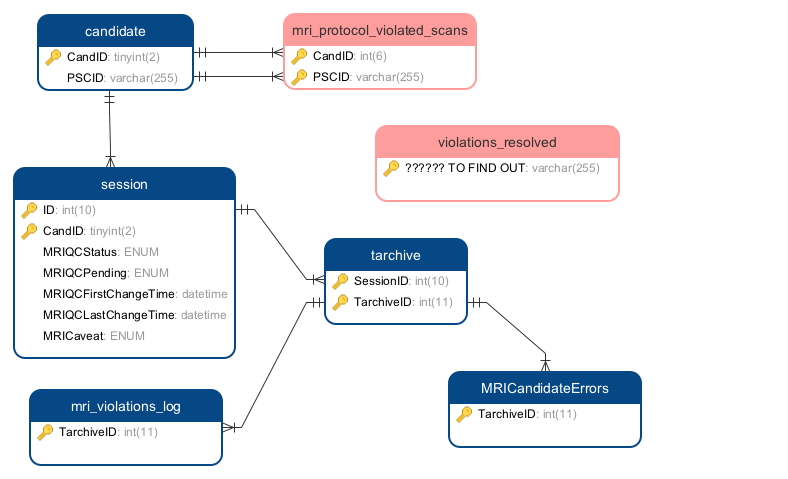
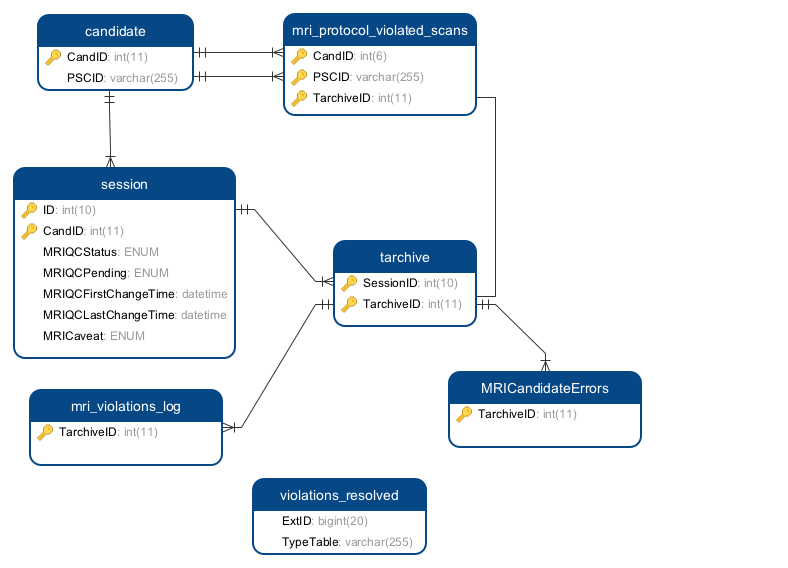
Changes based on the review of David Blader.

diff --git a/docs/04-TechnicalInfrastructure.md b/docs/04-TechnicalInfrastructure.md
@@ -25,11 +25,72 @@ The root directory of the imaging part of a LORIS instance is typically
             |__ trashbin
 ```
 
-Within that project directory, the data is structured according to its function:
+Within that project directory, there are typically two directories:
 
-- The imaging scripts from the Loris-MRI repository can be found under `bin/mri`
+- The `bin/mri` directory is a copy of all the imaging scripts downloaded from
+    the [GitHub Loris-MRI repository](https://github.com/aces/Loris-MRI). 
+    Details about the content of this folder can be found in 
+    [section 5](./05-Scripts.md).
 
-- The logs of the scripts are created under `data/logs` in `/data/project`.
+- The `data` directory stores all the imaging-related data that will be created
+    by the imaging scripts. 
+
+The following subsections will describe the content of the different 
+  subdirectories found under `/data/project/data`.
+
+
+#### The `assembly` directory
+
+The MINC images that can be viewed via BrainBrowser in the imaging browser 
+  module are located under the `data/assembly` directory and organized by 
+  `CandID/Visit`. Within each of these visit labels, data are first 
+  organized by imaging type (`mri` or `pet` for example) and then by output 
+  type (such as `native` or `processed`). For example, a native T1W image for 
+  subject 123456's V1 visit will be located in 
+  `data/assembly/123456/V1/mri/native/project_123456_V1_T1W_001.mnc`.
+    
+```
+## Content of the /data/project/data/assembly directory
+.
+|__ CandID
+    |__ Visit
+        |__ mri
+        |   |__ native
+        |   |   |__ project_CandID_Visit_modality_number.mnc
+        |   |__ processed
+        |       |__ pipeline_name
+        |           |__ nativeFileName_output_number.mnc
+        |__ pet
+            |__ native
+                | project_CandID_Visit_modality_number.mnc
+```
+
+
+#### The `incoming` directory
+
+Incoming scans from the Imaging uploader module (or automatic cron jobs) are 
+  stored in an `incoming` directory. Once the pipeline has successfully run,
+  data in the incoming folder are removed to avoid duplication of raw imaging
+  datasets.
+  
+  
+#### The `jiv` directory
+
+Jiv images produced by the imaging insertion pipeline are organized per 
+  candidates in the `data/jiv` folder.
+    
+```
+## Content of the /data/project/data/jiv directory
+.
+|__ CandID
+    |__ project_CandID_Visit_modality_number_fileid.header
+    |__ project_CandID_Visit_modality_number_fileid.raw_byte.gz
+```
+
+
+#### The `logs` directory
+
+The logs of the scripts are created under `data/logs` in `/data/project`.
     
 ```
 ## Content of the /data/project/data/logs directory
@@ -46,12 +107,52 @@ Within that project directory, the data is structured according to its function:
         |__ registerProcessed`date`.log
 ```
 
-- Incoming scans from the Imaging uploader module (or automatic cron jobs) are 
-    stored in an `incoming` directory. Once the pipeline has successfully run,
-    data in the incoming folder are removed to avoid duplication of raw imaging
-    datasets.
+
+#### The `pic` directory
+
+The screenshots displayed in the imaging browser module for each modality is 
+  stored within the `data/pic` folder and organized per candidates. 
     
-- The DICOM archives listed in the DICOM archive module are stored in the
+```
+## Content of the /data/project/data/pic directory
+.
+|__ CandID
+    |__ project_CandID_Visit_modality_number_fileid_check.jpg
+    |__ project_CandID_Visit_modality_number_fileid_check.jpg
+```  
+
+
+#### The `pipelines` directory
+
+Processed incoming data or DTIPrep pipeline outputs are stored within 
+  the `data/pipelines` directory and organized per pipeline versions, 
+  candidates and visit labels. In addition, protocol files for automatic 
+  pipelines are saved in the `data/protocols` directory.
+    
+```
+## Content of the /data/project/data/pipelines directory
+.
+|__ DTIPrep
+    |__ DTIPrep_version
+        |__ CandID
+            |__ Visit
+                |__ mri
+                    |__ processed
+                        |__ DTIPrep_XML_protocol_name
+                            |__ file.mnc
+                            |__ file.nrrd
+
+## Content of the /data/project/data/protocols directory
+.
+|__ protocols
+    |__ DTIPrep
+        |__ project_DTIPrep_XML_protocol.xml
+```
+
+
+#### The `tarchive` directory
+  
+The DICOM archives listed in the DICOM archive module are stored in the
   `data/tarchive` directory and organized folders representing the different 
   years of acquisition.
 
@@ -68,8 +169,10 @@ Within that project directory, the data is structured according to its function:
     |__ DCM_`date`_tarchive.tar
 ```
 
-- The violated scans listed in the MRI violated scans module are stored within 
-    the directory `data/trashbin`.
+#### The `trashbin` directory
+
+The scans that violates the established imaging protocol and listed in the MRI 
+  violated scans module are stored within the directory `data/trashbin`.
     
 ```
 ## Content of the /data/project/data/trashbin directory
@@ -80,77 +183,7 @@ Within that project directory, the data is structured according to its function:
 |__ Tarload-XX2
     |__file.mnc
 ```
-     
-- The MINC images that can be viewed via BrainBrowser in the imaging browser 
-    module are located under the `data/assembly` directory and organized by 
-    `CandID/Visit_label`. Whithin each of these visit labels, data are first 
-    organized by imaging type (`mri` or `pet` for example) and then by output 
-    type (such as `native` or `processed`). For example, a native T1W image for 
-    subject 123456's V1 visit will be located in 
-    `data/assembly/123456/V1/mri/native/Project_123456_V1_T1W_001.mnc`.
-    
-```
-## Content of the /data/project/data/assembly directory
-.
-|__ candid
-    |__ visit
-        |__ mri
-        |   |__ native
-        |   |   |__ Project_candid_visit_modality_number.mnc
-        |   |__ processed
-        |       |__ pipeline_name
-        |           |__ nativeFileName_output_number.mnc
-        |__ pet
-            |__ native
-                | Project_candid_visit_modality_number.mnc
-```
-
-- The screenshots displayed in the imaging browser module for each modality is 
-    stored within the `data/pic` folder and organized per candidates. 
-    
-```
-## Content of the /data/project/data/pic directory
-.
-|__ candid
-    |__ Project_candid_visit_modality_number_fileid_check.jpg
-    |__ Project_candid_visit_modality_number_fileid_check.jpg
-```
-    
-- Additionally, jiv images are produced by the imaging pipeline and are 
-    organized per candidates in the `data/jiv` folder.
-    
-```
-## Content of the /data/project/data/jiv directory
-.
-|__ candid
-    |__ Project_candid_visit_modality_number_fileid.header
-    |__ Project_candid_visit_modality_number_fileid.raw_byte.gz
-```
-    
-- Finally, processed incoming data or DTIPrep pipeline outputs are stored within 
-    the `data/pipelines` directory and organized per pipeline versions, 
-    candidates and visit labels. In addition, protocol files for automatic 
-    pipelines are saved in the `data/protocols` directory.
-    
-```
-## Content of the /data/project/data/pipelines directory
-.
-|__ DTIPrep
-    |__ DTIPrep_version
-        |__ candid
-            |__ visit
-                |__ mri
-                    |__ processed
-                        |__ DTIPrep_XML_protocol_name
-                            |__ file.mnc
-                            |__ file.nrrd
-
-## Content of the /data/project/data/protocols directory
-.
-|__ protocols
-    |__ DTIPrep
-        |__ Project_DTIPrep_XML_protocol.xml
-```
+      
 
 ## 4.2 Database infrastructure
 
@@ -272,13 +305,21 @@ In the event a scan does not match any of the protocol mentioned in the
   * the **_mri\_protocol\_violated\_scans_** table stores the violated scans'
       parameters (TR, TE, TI...) for easy identification of what is different
       between the violated scan and the imaging protocol specified in the 
-      _mri\_protocol_ table. ***NOTE: THE LINKS TO THE CANDIDATE TABLE IS A 
-      TERRIBLE DESIGN AND THAT TABLE SHOULD LINKED TO THE TARCHIVE TABLE 
-      INSTEAD. ISSUE THAT SHOULD BE FIX FOR THE NEXT MINOR RELEASE AFTER 19.0***
-  * THE **_violations\_resolved_** table... ***NOTE: THIS TABLE DOES NOT HAVE
-      ANY LINK TO THE OTHER TABLES... NEED TO FIX THIS. PROBABLY FOR THE NEXT
-      RELEASE TOO***
-
+      _mri\_protocol_ table. This table is linked to the tarchive table via 
+      the _TarchiveID_ foreign key and to the candidate table via the _CandID_
+      and _PSCID_ foreign keys.
+  * the **_violations\_resolved_** is linked to the three other tables mentioned 
+      in this section. For each entry in that table, the _TypeTable_ field 
+      allows to specify the table to link **_violations\_resolved_** to and the
+      _ExtID_ allows to specify the ID to use from the linked table. Below is a
+      table illustrating this concept.
+      
+| TableType                      | ExtID                                |
+|--------------------------------|--------------------------------------|
+| MRICandidateErrors             |   MRICandidateErrors.ID              |
+| mri\_violations\_log           | mri\_violations\_log.LogID           |
+| mri\_protocol\_violated\_scans |   mri\_protocol\_violated\_scans.ID  |       
+ 
 ![violated_tables](images/violated_tables.png)
 
 ### 4.2.5 Quality Control (QC) tables
